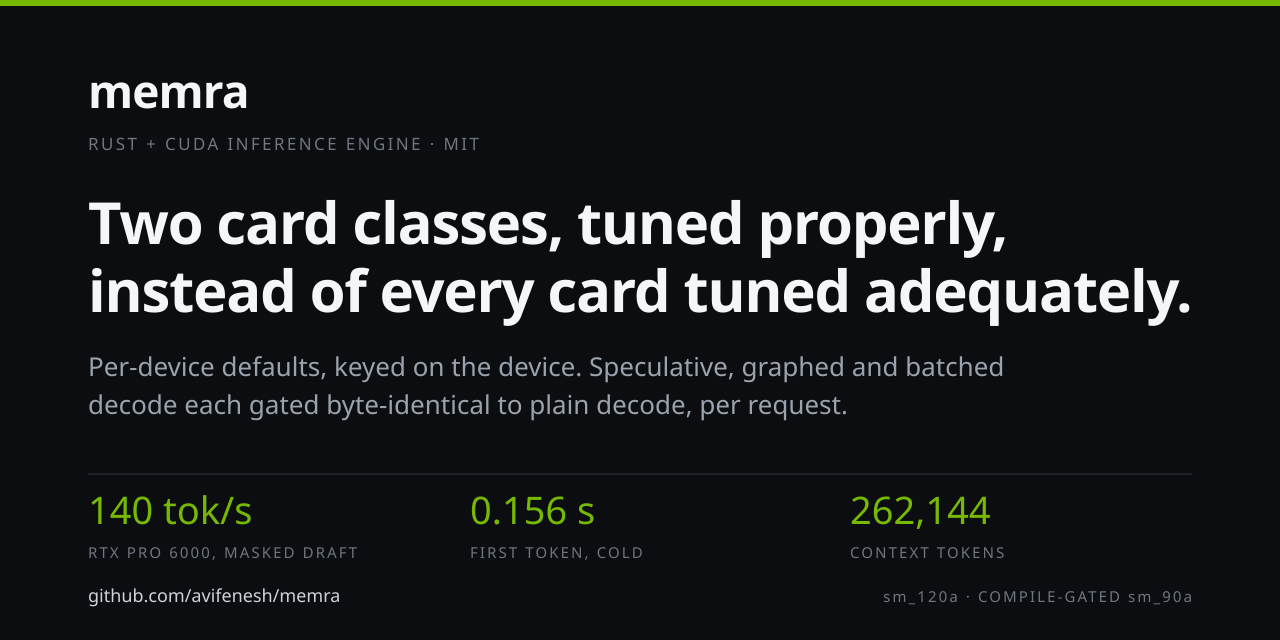
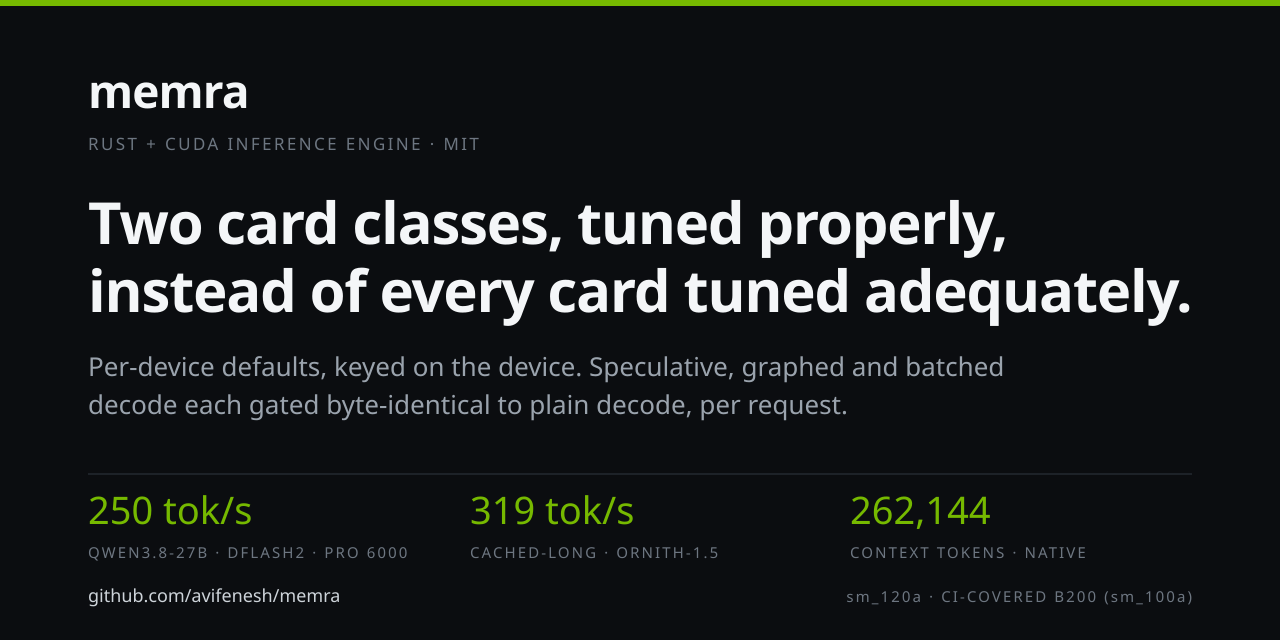
docs: Qwen3.8-Flash-Next and GLM-5.3-Flash enter the roster; Hy3 and step37 cards catch up
Owner note 2026-09-02: support landed without the cards. Synced against the
engine census (model packs, engine paths, lane receipts):

- README 'By model' + docs/models: new cards for Qwen3.8-Flash-Next
  (NativeReference bring-up — real-checkpoint eager gate green, ModelPlan
  loader unwired, no serving surface; states what it does NOT certify) and
  GLM-5.3-Flash (NativeReference — glm5_next plan, TP path, vision, MTP spec,
  1M trained context stated as a training fact).
- docs/MODELS.md sits-table gains GLM-5.3-Flash, Qwen3.8-Flash-Next, and Hy3
  rows; README and docs/models bullets now state Hy3's two-state headline
  (NativeReference canonical, NativeQualified NVFP4 artifact) instead of
  'qualification pending', which the card outgrew.
- step37-flash card: image input, postthink structured output, and
  draft-graph serving all shipped on the qualified endpoint; the card still
  described the pipeline path alone.
- docs/social-preview.png regenerated from darklanes ops/brand: the committed
  card still carried the retired sm_90a CI line and masked-draft-era figures
  that match no current published claim.

Gates: docs-registry-census (KERNELS refs, MODELS.md three-state vocabulary
5/5), check-flags, public-boundary check all green.

diff --git a/docs/models/step37-flash.md b/docs/models/step37-flash.md
@@ -2,10 +2,30 @@
 
 | | Recommended use |
 |---|---|
-| **Status** | Supported on the qualified GGUF pipeline path; FP8 tuning is separate work |
+| **Status** | Supported on the qualified GGUF pipeline path — PP-2 serving, image input, structured output, and graphed draft chains; FP8 tuning is separate work |
 | **Best starting path** | IQ4_XS trunk with the Q8_0 MTP head on two-card PP-2 |
 | **Hardware** | 2× RTX PRO 6000 Blackwell |
 | **Use this when** | The model does not fit one card and you want the qualified pipeline-parallel path |
 
 Use the [Step cookbook](../COOKBOOK.md#step-37-flash-196b-a11b). This is PP-2, not tensor
 parallelism. Topology and admission behavior are in [serving](../SERVING.md#pipeline-parallel-pp-2-serving).
+
+Since the qualified pipeline landed, three more surfaces serve on the same endpoint:
+
+- **Image input** (lane/step37-vision-20260830): the checkpoint's own perception_encoder
+  tower runs in-engine behind `MEMRA_STEP_VISION_DIR` (default OFF; [flags](../FLAGS.md)),
+  with the vendor's exact tiling law. Per-token parity-gated against two independent
+  references before any serving path; text requests stay byte-identical to the seam-off
+  boot and keep MTP spec engaged. Receipts: `research/step37-vision-20260830/`.
+- **Structured output** (lane/step37-postthink-grammar): `response_format`
+  `json_object`/`json_schema` served post-think — the think phase runs unconstrained as
+  trained, the grammar engages from the tokenizer's `
+</think>
+
+` close token. Fail-closed
+  named 400s if generation ends inside the reasoning channel. Receipts:
+  `research/step37-postthink-grammar-20260830/`.
+- **Draft-graph serving** (lane/step37-draft-graph-serving-20260830): the 3-head
+  step-modulo draft chain is CUDA-graph captured on the serving shape, greedy and
+  filtered-sampling arms byte-identical to eager. Receipts:
+  `research/step37-draft-graph-serving-20260830/`.

diff --git a/docs/models/qwen38-flash-next.md b/docs/models/qwen38-flash-next.md
@@ -1,0 +1,31 @@
+# Qwen3.8-Flash-Next
+
+Support state: **NativeReference** (bring-up). The eager engine path is gated at real
+checkpoint scale; the ModelPlan loader path is not wired, there is no serving surface, and
+production admission still requires the NativeQualified gate set.
+
+## What is gated
+
+- Source: `Qwen/Qwen3.8-Flash-Next@de4b8e4d` — 48 text layers (36 GDN : 12 QSA at interval
+  4), 512-expert softmax-top-10 MoE plus a sigmoid-gated shared expert every layer, a 51B
+  n-gram/PLE block, a 1-layer QSA MTP head, vocab 248,320, 262,144-token native window
+  (1M YaRN). Geometry was read from checkpoint headers, never by analogy to a sibling
+  (`research/qwen4exp-bringup-20260829/ARCH.md`).
+- Artifact: experts-only NVFP4 mint, BF16 MTP grafted byte-exact
+  (`tiyuvta/Qwen3.8-Flash-Next-NVFP4` on Hugging Face). The upstream modeling code carries
+  no MTP module, so any PTQ pass without the graft ships no draft head at all.
+- Real-checkpoint gate
+  (`research/qwen4exp-bringup-20260829/REAL-CHECKPOINT-GATE.md`): the 360 GB BF16 and the
+  NVFP4 artifact both run final-logits argmax 10/10 against independent goldens, and the
+  NVFP4 arm matches the BF16 greedy chain 64/64.
+- Engine path: hand-written `crates/memra-engine/src/qwen4exp_gpu.rs` (gate binaries
+  `qwen4exp_real_gate`, `qwen4exp_gpu_gate`). The `qwen4_exp` model pack is
+  inspection/census only — no native-plan execution.
+
+## What this does NOT certify
+
+Sampled serving behavior (greedy is the instrument), MTP/spec execution, vision, long
+context (>2051-token indexer pruning on real geometry), batching, multi-GPU, the
+tokenizer/template serving surface, or any perf/context product claim.
+
+Nothing above transfers to any sibling family by analogy.

diff --git a/docs/models/glm53-flash.md b/docs/models/glm53-flash.md
@@ -1,0 +1,23 @@
+# GLM-5.3-Flash
+
+Support state: **NativeReference**. Bring-up is gated on the bench box's two-card RTX PRO
+6000 Blackwell Server receipts; NativeQualified admission is the next gate.
+
+- Source: `zai-org/GLM-5.3-Flash@04c4e9e95c5da8862dced7e5056455116f83a7e0` (FP8 e4m3, MIT).
+- Architecture, read from the modeling source rather than the card: 45 decoder layers + 1
+  MTP — 34 KDA linear-attention and 11 DSA (MLA + sparse indexer); MoE on 42+MTP layers
+  (288 routed sigmoid + 1 shared) plus 3 dense layers; 4-stream hyper-connections; no
+  rotary anywhere in the text stack. Trained `context_length` is 1,048,576 — a training
+  fact, not a serving claim: the resident shape OOMs the 1M prime
+  (`research/glm5-prefix-latent-20260830/box-window/WINDOW-STATUS.md`).
+- Engine surface: the `glm5_next` model plan, a hand-written multi-card TP path
+  (`crates/memra-engine/src/glm5_tp.rs`), MTP spec (`glm_spec.rs`), and vision
+  (`vision_glm5.rs`). The template's always-rendered `Reasoning Effort: {Low|High|Max}`
+  line and unconditional `<think>` tail are probed and documented in
+  [serving](../SERVING.md).
+- Bring-up receipts: `research/glm53-flash-bringup-20260827/` (tensor census, 262k
+  two-card, batched decode gate); vision and multi-card batteries under
+  `research/glm5-vision-20260830/` and `research/glm53-vision-ppn-20260901/`.
+
+Checkpoint-, quantization-, and hardware-specific: none of this transfers to GLM-5/5.2
+(`glm_dsa`, loader-only) or to any other family by analogy.

diff --git a/docs/MODELS.md b/docs/MODELS.md
@@ -43,6 +43,9 @@ question from what is supported:
 | Step-3.7-Flash 196B-A11B | **GGUF** (IQ4_XS + Q8_0 MTP head, two-card PP-2) since v0.73.1 | FP8 — not Q8 |
 | Gemma, rest of the family | GGUF | NVFP4 safetensors rework in progress |
 | DeepSeek-V4-Flash | **safetensors** checkpoint dir through its own two-card door — **experimental engine support**, functional and gated, **not serving-grade** (see its section below) | performance ([#32](https://github.com/avifenesh/memra/issues/32)) |
+| GLM-5.3-Flash | **safetensors** (FP8 e4m3, MIT) on the hand-written `glm5_next` path — **NativeReference**; multi-card TP serving, vision, and MTP spec gated (see [its card](models/glm53-flash.md)) | — |
+| Qwen3.8-Flash-Next | **bring-up only** — hand-written `qwen4_exp` gate path on the minted NVFP4 artifact, real-checkpoint eager gate green; ModelPlan loader not wired, no serving surface (see [its card](models/qwen38-flash-next.md)) | — |
+| Hy3 | **safetensors** — canonical BF16 plan **NativeReference**; the exact all-expert ModelOpt W4A16 artifact is **NativeQualified** on four-card Blackwell receipts (see [its card](models/hy3.md)) | — |
 | everything else in the table | GGUF | — |
 
 Nothing above is a roadmap. It is where the code is, and it changes by decision. A row moving

diff --git a/README.md b/README.md
@@ -66,6 +66,7 @@ library embedded in your application.
 ## Choose a path
 
 **By model:** [Qwen3.8 27B](docs/models/qwen38-27b.md) ·
+[Qwen3.8 Flash Next](docs/models/qwen38-flash-next.md) (NativeReference bring-up) ·
 [Qwen3.5 9B](docs/models/qwen35-9b.md) · [Qwen3.6 27B](docs/models/qwen36-27b.md) ·
 [Qwen3.6 35B-A3B](docs/models/qwen36-35b-a3b.md) ·
 [Qwen-AgentWorld 35B-A3B](docs/models/qwen-agentworld-35b-a3b.md) ·
@@ -78,7 +79,8 @@ library embedded in your application.
 [Gemma 4 E4B](docs/models/gemma4-e4b.md) ·
 [Step 3.7 Flash](docs/models/step37-flash.md) ·
 [DeepSeek V4 Flash](docs/models/deepseek-v4-flash.md) ·
-[Hy3](docs/models/hy3.md) (NativeReference)
+[GLM-5.3 Flash](docs/models/glm53-flash.md) (NativeReference) ·
+[Hy3](docs/models/hy3.md) (NativeReference · NVFP4 NativeQualified)
 
 **By hardware:** [RTX PRO 6000 Blackwell](docs/rigs/rtx-pro-6000-blackwell.md) ·
 [RTX 5090 / 50-series](docs/rigs/rtx-5090.md) · [H100](docs/rigs/h100.md) ·

diff --git a/docs/models/README.md b/docs/models/README.md
@@ -5,6 +5,7 @@ support matrix remains [docs/MODELS.md](../MODELS.md); measurements remain
 [docs/PERFORMANCE.md](../PERFORMANCE.md).
 
 - [Qwen3.8 27B](qwen38-27b.md)
+- [Qwen3.8 Flash Next](qwen38-flash-next.md) — NativeReference bring-up
 - [Qwen3.5 9B](qwen35-9b.md)
 - [Qwen3.6 27B](qwen36-27b.md)
 - [Qwen3.6 35B-A3B](qwen36-35b-a3b.md)
@@ -18,7 +19,8 @@ support matrix remains [docs/MODELS.md](../MODELS.md); measurements remain
 - [Gemma 4 E4B](gemma4-e4b.md)
 - [Step 3.7 Flash 196B-A11B](step37-flash.md)
 - [DeepSeek V4 Flash](deepseek-v4-flash.md) — experimental
-- [Hy3](hy3.md) — NativeReference; checkpoint and serving qualification pending
+- [GLM-5.3 Flash](glm53-flash.md) — NativeReference
+- [Hy3](hy3.md) — NativeReference canonical plan; NativeQualified for the exact NVFP4 artifact
 
 Support is checkpoint-, quantization-, drafter-, and hardware-specific. A card is a route into
 the authoritative docs, not a promise about adjacent checkpoints.
